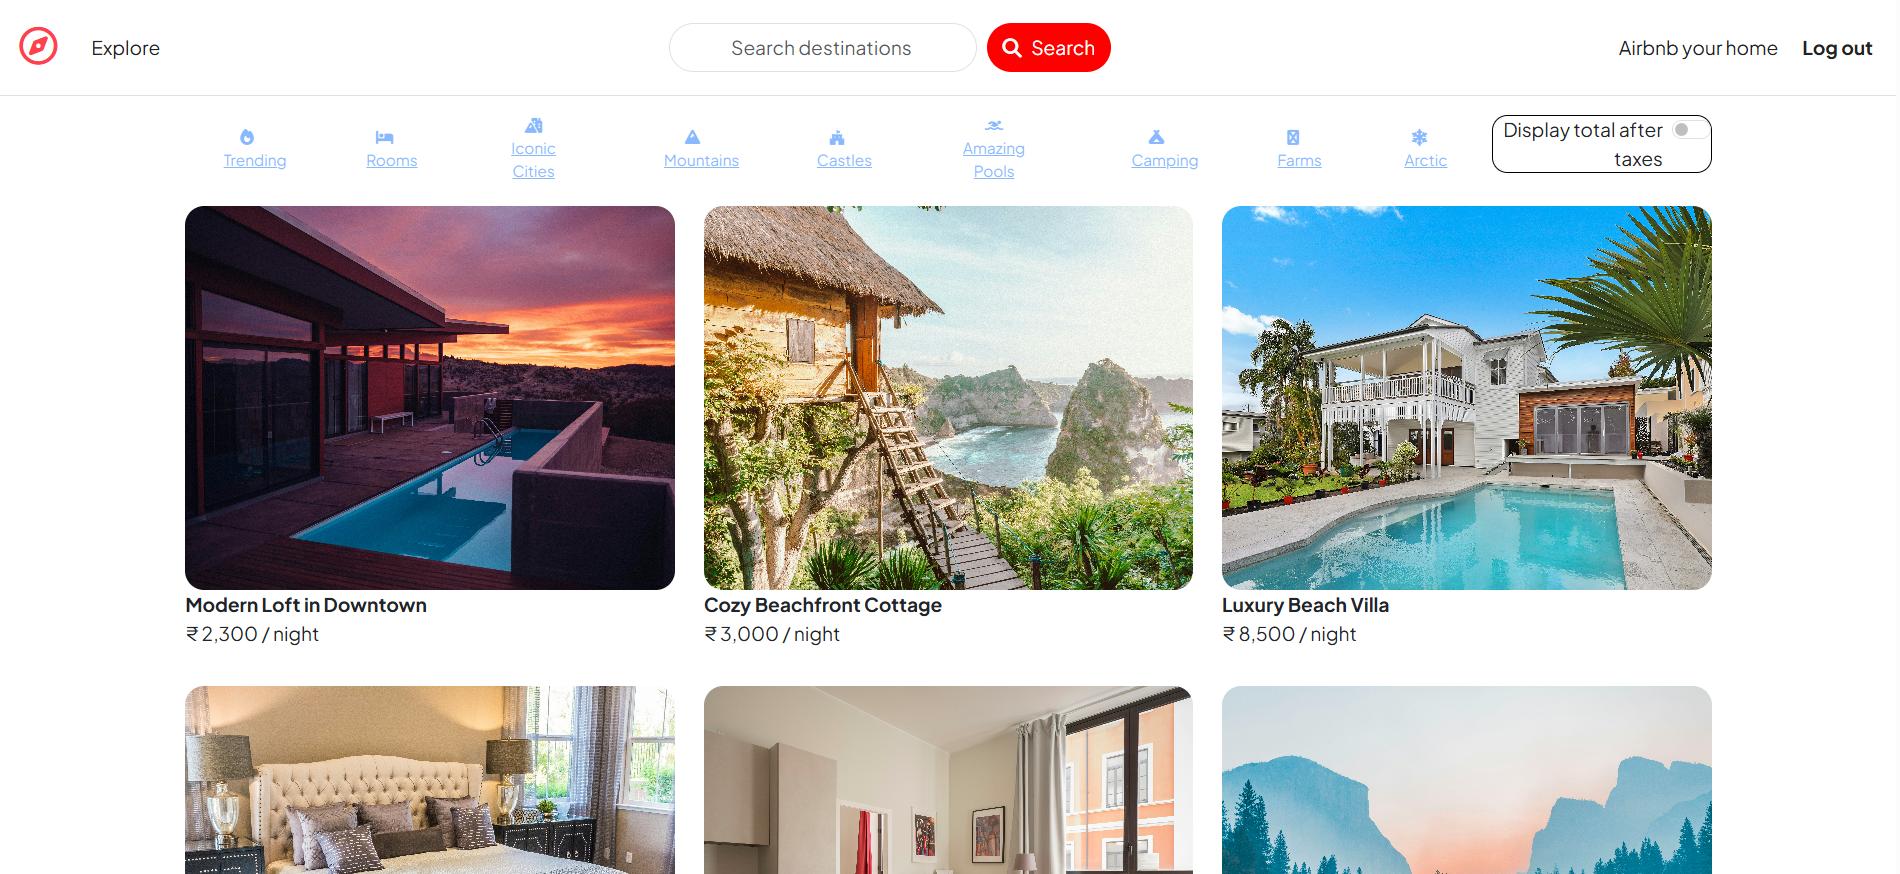
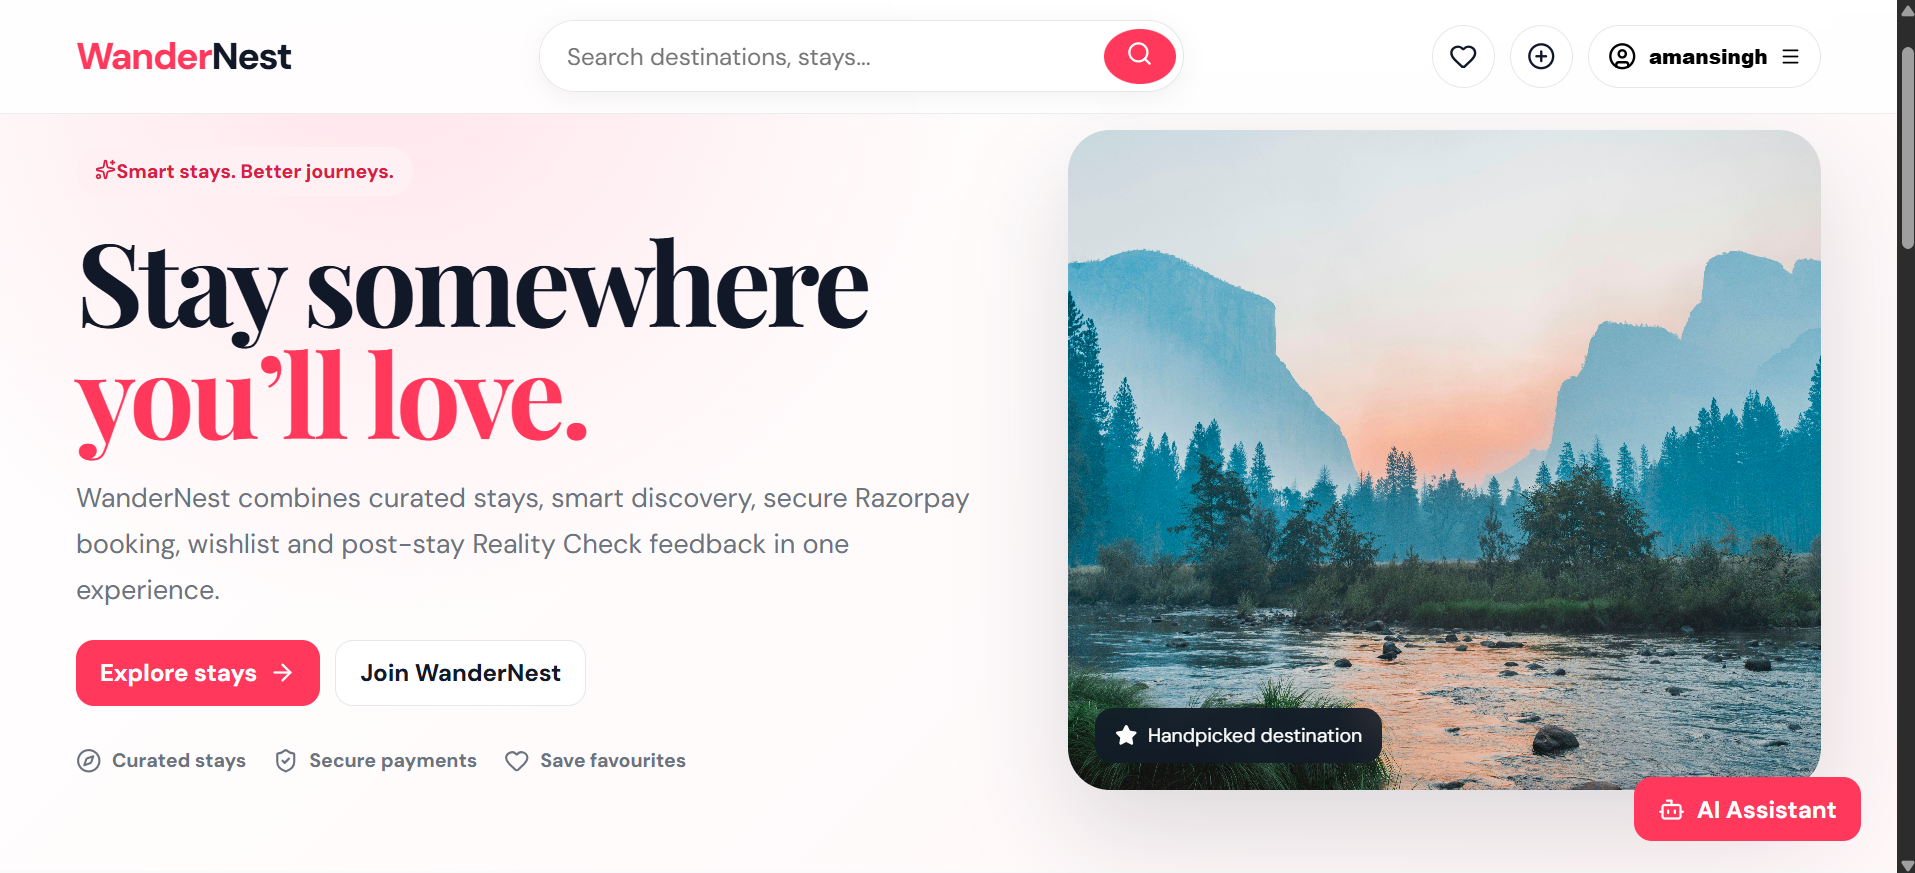
update new project

diff --git a/src/components/Projects.jsx b/src/components/Projects.jsx
@@ -1,23 +1,39 @@
 import { useState } from "react";
-import { FaChevronLeft, FaChevronRight, FaGithub, FaExternalLinkAlt } from "react-icons/fa";
+import {
+  FaChevronLeft,
+  FaChevronRight,
+  FaGithub,
+  FaExternalLinkAlt,
+} from "react-icons/fa";
+
 import { projects } from "../data/projects";
 import "./Projects.css";
 
 export default function Projects() {
   const [activeIndex, setActiveIndex] = useState(0);
+
   const showPreviousProject = () => {
-    setActiveIndex((currentIndex) => (currentIndex - 1 + projects.length) % projects.length);
+    setActiveIndex(
+      (currentIndex) =>
+        (currentIndex - 1 + projects.length) % projects.length
+    );
   };
+
   const showNextProject = () => {
-    setActiveIndex((currentIndex) => (currentIndex + 1) % projects.length);
+    setActiveIndex(
+      (currentIndex) => (currentIndex + 1) % projects.length
+    );
   };
 
   const getCardPosition = (index) => {
-    const offset = (index - activeIndex + projects.length) % projects.length;
+    const offset =
+      (index - activeIndex + projects.length) % projects.length;
 
     if (offset === 0) return "is-active";
     if (offset === 1) return "is-right";
-    return "is-left";
+    if (offset === projects.length - 1) return "is-left";
+
+    return "is-hidden";
   };
 
   return (
@@ -48,9 +64,9 @@ export default function Projects() {
 
           {projects.map((project, index) => (
             <article
-              key={index}
+              key={project.title}
               className={`project-card ${getCardPosition(index)}`}
-              // onMouseEnter={() => setActiveIndex(index)}
+              onClick={() => setActiveIndex(index)}
             >
               <img
                 src={project.image}
@@ -60,14 +76,24 @@ export default function Projects() {
 
               <div className="project-card__body">
                 <div>
-                  <h3 className="project-card__title">{project.title}</h3>
+                  <h3 className="project-card__title">
+                    {project.title}
+                  </h3>
 
                   <p className="project-card__category">
                     {project.tech.slice(0, 2).join(" / ")}
                   </p>
+
+                  {project.status && (
+                    <p className="project-card__category">
+                      Status: {project.status}
+                    </p>
+                  )}
                 </div>
 
-                <p className="project-card__description">{project.desc}</p>
+                <p className="project-card__description">
+                  {project.desc}
+                </p>
 
                 <div className="project-card__tech">
                   {project.tech.slice(0, 4).map((tech) => (
@@ -76,25 +102,32 @@ export default function Projects() {
                 </div>
 
                 <div className="project-card__actions">
-                  <a
-                    href={project.live}
-                    target="_blank"
-                    rel="noopener noreferrer"
-                    className="project-card__link project-card__link--primary"
-                  >
-                    <FaExternalLinkAlt />
-                    Live
-                  </a>
+                  {project.live &&
+                    !project.live.includes("YOUR_LIVE_LINK_HERE") && (
+                      <a
+                        href={project.live}
+                        target="_blank"
+                        rel="noopener noreferrer"
+                        className="project-card__link project-card__link--primary"
+                        onClick={(event) => event.stopPropagation()}
+                      >
+                        <FaExternalLinkAlt aria-hidden="true" />
+                        Live
+                      </a>
+                    )}
 
-                  <a
-                    href={project.repo}
-                    target="_blank"
-                    rel="noopener noreferrer"
-                    className="project-card__link project-card__link--secondary"
-                  >
-                    <FaGithub />
-                    GitHub
-                  </a>
+                  {project.repo && (
+                    <a
+                      href={project.repo}
+                      target="_blank"
+                      rel="noopener noreferrer"
+                      className="project-card__link project-card__link--secondary"
+                      onClick={(event) => event.stopPropagation()}
+                    >
+                      <FaGithub aria-hidden="true" />
+                      GitHub
+                    </a>
+                  )}
                 </div>
               </div>
             </article>
@@ -117,9 +150,9 @@ export default function Projects() {
               key={project.title}
               type="button"
               className={index === activeIndex ? "is-selected" : ""}
-              // onMouseEnter={() => setActiveIndex(index)}
               onClick={() => setActiveIndex(index)}
               aria-label={`Show ${project.title}`}
+              aria-pressed={index === activeIndex}
             >
               {project.title.split(" ")[0]}
             </button>

diff --git a/src/data/projects.js b/src/data/projects.js
@@ -3,52 +3,70 @@ export const projects = [
     title: "WanderNest - Travel & Accommodation Booking Platform",
     desc: "Full-stack travel & accommodation booking platform with authentication, reviews, ratings, image uploads and RESTful APIs.",
     tech: [
+      "React.js",
       "Node.js",
+      "Vite",
       "Express.js",
       "MongoDB",
       "REST API",
       "EJS",
       "Bootstrap",
       "Passport.js",
-      "Cloudinary"
+      "Cloudinary",
+      "Razorpay",
+      "Render",
     ],
-    live: "https://wandernest-travel-accommodation-platform.onrender.com/",
+    live: "https://wandernest-7dn2.onrender.com/",
     repo: "https://github.com/as588895/WanderNest-Travel-Accommodation-Platform",
-    image: "/wandernest.png"
+    image: "/wandernest.png",
   },
 
- {
-  title: "Full Stack Stock Trading Platform",
-  desc: "A full-stack Zerodha-inspired stock trading platform featuring secure authentication, an interactive dashboard, watchlist, portfolio management, and trading workflows. Built with the MERN stack and continuously enhanced with new features.",
-  tech: [
-    "React.js",
-    "Bootstrap",
-    "Node.js",
-    "Express.js",
-    "MongoDB Atlas",
-    "REST API",
-  "JWT Authentication",
-  "Axios",
-  "React Router"
-  ],
-  status: "In Progress",
-  repo: "https://github.com/as588895/Full-Stack-Stock-Trading-Platform",
-  live: "https://full-stack-stock-trading-platform-2-rouf.onrender.com/",
-  image: "/stock-trading.png"
-},
+  {
+    title: "Full Stack Stock Trading Platform",
+    desc: "A full-stack Zerodha-inspired stock trading platform featuring secure authentication, an interactive dashboard, watchlist, portfolio management, and trading workflows. Built with the MERN stack and continuously enhanced with new features.",
+    tech: [
+      "React.js",
+      "Bootstrap",
+      "Node.js",
+      "Express.js",
+      "MongoDB Atlas",
+      "REST API",
+      "JWT Authentication",
+      "Axios",
+      "React Router",
+    ],
+    status: "In Progress",
+    repo: "https://github.com/as588895/Full-Stack-Stock-Trading-Platform",
+    live: "https://full-stack-stock-trading-platform-2-rouf.onrender.com/",
+    image: "/stock-trading.png",
+  },
+  {
+    title: "SURAKSHA-X",
+    desc: "A full-stack hazard detection and relocation management system that helps identify disaster risks, monitor affected populations, detect risk levels, and generate safe-location based relocation recommendations. Built with the MERN stack with an intelligent risk prediction system.",
+    tech: [
+      "React.js",
+      "Node.js",
+      "Express.js",
+      "MongoDB Atlas",
+      "REST API",
+      "Axios",
+      "Mapbox",
+      "Risk Prediction",
+      "Geolocation",
+      "Responsive UI",
+    ],
+    status: "Working",
+    repo: "https://github.com/as588895/SURAKSHA-X",
+    live: "YOUR_LIVE_LINK_HERE",
+    image: "/suraksha-x.png",
+  },
 
- {
-  title: "WeatherPulse",
-  desc: "A modern React-based weather application that provides real-time weather updates, temperature, humidity, and weather conditions using the OpenWeather API with a responsive and user-friendly interface.",
-  tech: [
-    "React.js",
-    "Vite",
-    "Material UI",
-    "OpenWeather API",
-    "CSS"
-  ],
-  live: "https://weatherpulse-g3l8.onrender.com/",
-  repo: "https://github.com/as588895/WeatherPulse",
-  image: "/weatherpulse.png"
-}
+  {
+    title: "WeatherPulse",
+    desc: "A modern React-based weather application that provides real-time weather updates, temperature, humidity, and weather conditions using the OpenWeather API with a responsive and user-friendly interface.",
+    tech: ["React.js", "Vite", "Material UI", "OpenWeather API", "CSS"],
+    live: "https://weatherpulse-g3l8.onrender.com/",
+    repo: "https://github.com/as588895/WeatherPulse",
+    image: "/weatherpulse.png",
+  },
 ];

diff --git a/src/components/Loading.jsx b/src/components/Loading.jsx
@@ -1,9 +1,9 @@
-import React from 'react'
+import React from "react";
 
-export default function Loading(){
+export default function Loading() {
   return (
     <div className="fixed inset-0 z-50 flex items-center justify-center bg-white/80 dark:bg-secondary/80">
       <div className="animate-spin rounded-full h-12 w-12 border-t-4 border-primary" />
     </div>
-  )
+  );
 }
